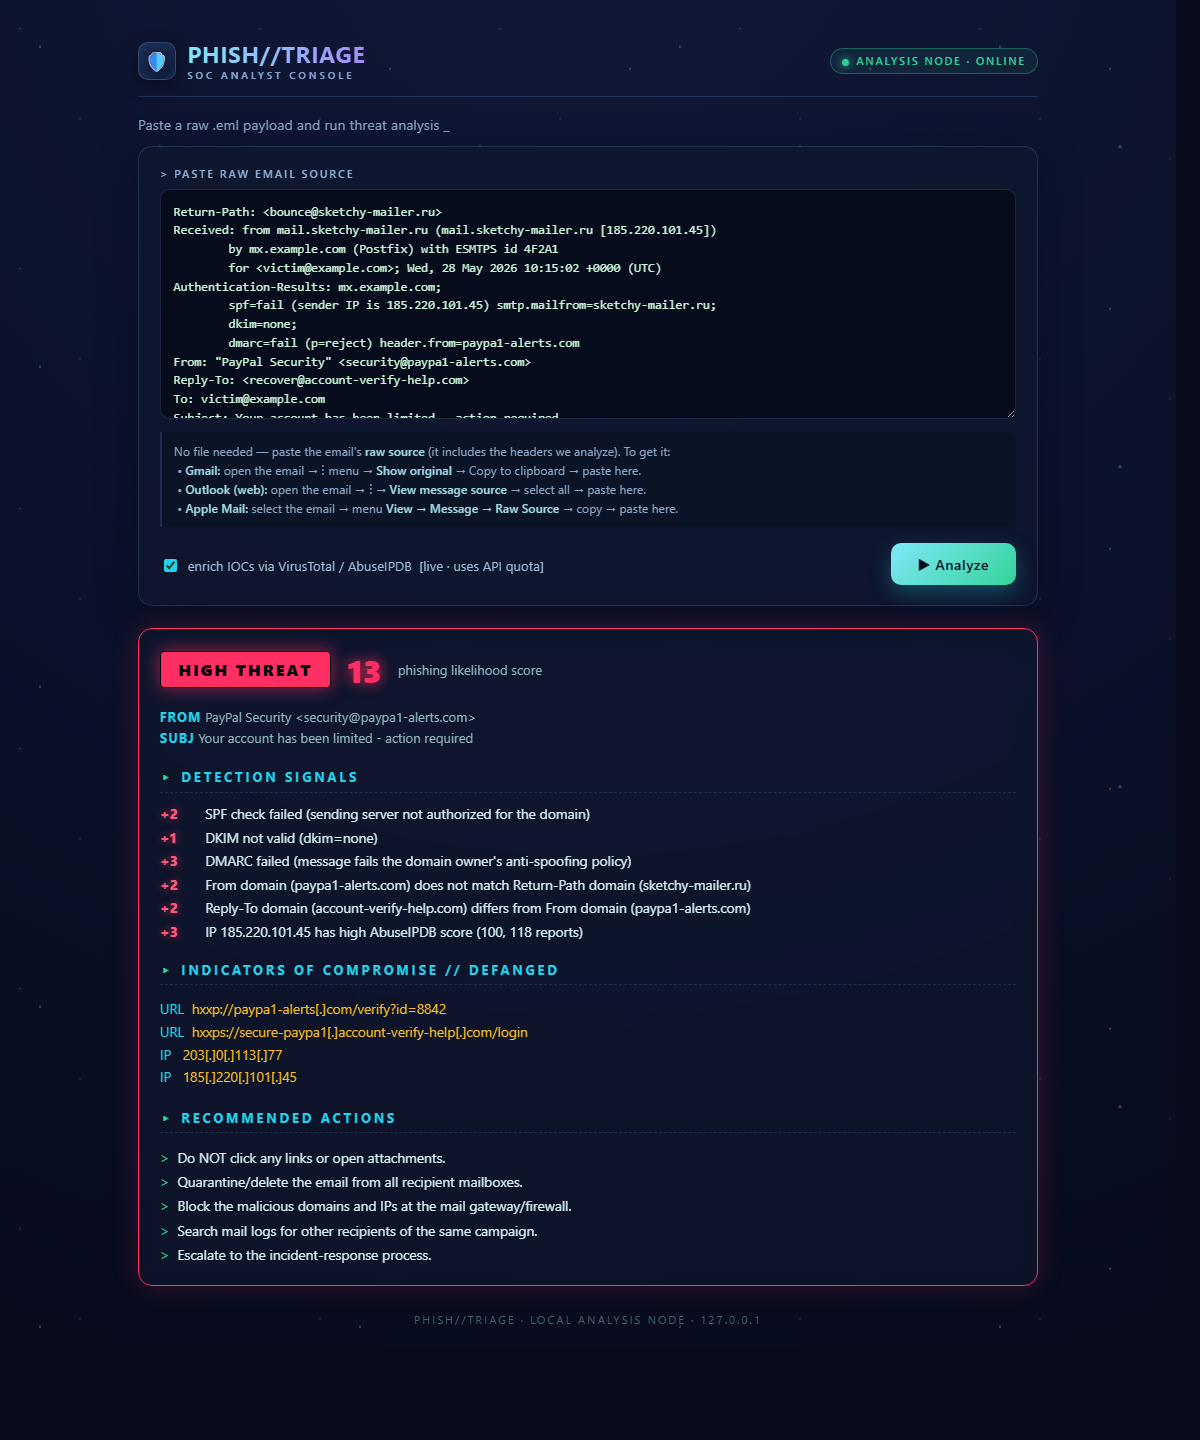
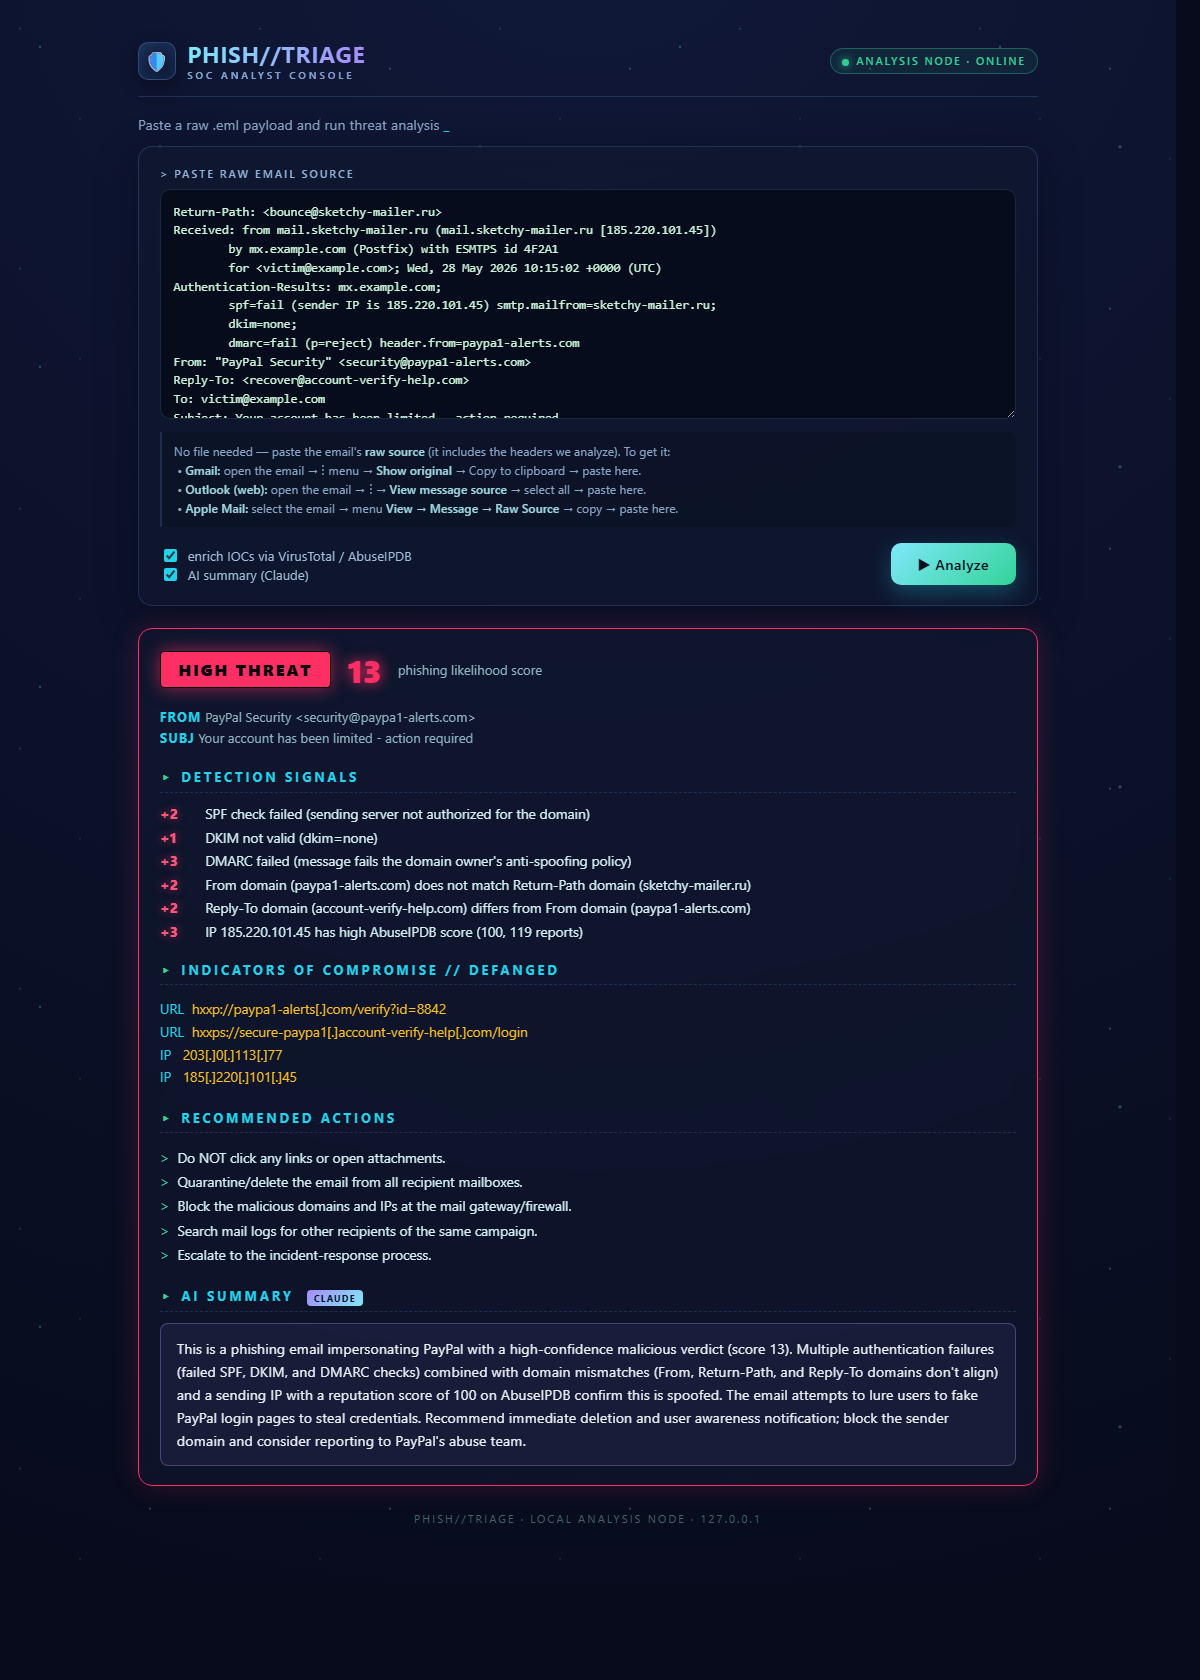
M7: show the AI summary in the web UI; use Haiku; cache demo summary
- Add an AI summary checkbox to the web UI; render the summary in a styled card;
  demo supports the ai=1 query param
- Default the summary model to claude-haiku-4-5 (fast and cheap for a short
  summary; opus-4-8 is still one line away)
- Cache the bundled-demo summary so repeated demo views do not re-call the API
- Add web-AI-path tests; refresh docs/screenshot.png with the AI summary

Changed region(s): [[0.1233, 0.0, 0.8325, 0.9062], [0.74, 0.3125, 0.8633, 0.4375], [0.6783, 0.0312, 0.8633, 0.0625]]

diff --git a/app.py b/app.py
@@ -17,6 +17,7 @@ from flask import Flask, request, render_template_string
 from phishing_triage.parser import parse_bytes
 from phishing_triage.iocs import defang
 from phishing_triage.cli import build_report
+from phishing_triage.summarize import generate_summary
 
 app = Flask(__name__)
 
@@ -25,6 +26,9 @@ SAMPLE = Path(__file__).resolve().parent / "samples" / "phishing_sample.eml"
 SAMPLE_TEXT = SAMPLE.read_text(encoding="utf-8") if SAMPLE.exists() else ""
 
 VERDICT_COLORS = {"High": "#ff2e63", "Medium": "#ffb302", "Low": "#39ff14"}
+
+# Cache the bundled-demo AI summary so repeated /?demo views don't re-call the API.
+_DEMO_SUMMARY_CACHE = {}
 
 PAGE = """
 <!doctype html>
@@ -147,6 +151,12 @@ PAGE = """
     .act { font-size: .86rem; color: #d4eef3; padding: .2rem 0 .2rem 1.1rem; position: relative; }
     .act::before { content: ">"; position: absolute; left: 0; color: var(--green); }
     .empty { color: #6fb9c7; font-size: .85rem; }
+    .aisum { font-size: .9rem; line-height: 1.6; color: #e6f2f7; margin: .3rem 0 0;
+             padding: .8rem 1rem; border-radius: 8px; border: 1px solid rgba(167,139,250,.35);
+             background: rgba(167,139,250,.08); }
+    .ai-tag { font-size: .58rem; font-weight: 700; letter-spacing: 1px; color: #07101f;
+              background: linear-gradient(135deg,#a78bfa,#7ee8fa); padding: .12rem .45rem;
+              border-radius: 4px; vertical-align: middle; margin-left: .4rem; }
     .foot { margin-top: 1.6rem; text-align: center; color: #466; font-size: .7rem; letter-spacing: 2px; }
   </style>
 </head>
@@ -171,8 +181,12 @@ PAGE = """
           &nbsp;&bull; <b>Outlook (web):</b> open the email → &#8942; → <b>View message source</b> → select all → paste here.<br>
           &nbsp;&bull; <b>Apple Mail:</b> select the email → menu <b>View → Message → Raw Source</b> → copy → paste here.</p>
         <div class="controls">
-          <span class="chk"><label><input type="checkbox" name="enrich" {% if enrich %}checked{% endif %}>
-            enrich IOCs via VirusTotal / AbuseIPDB &nbsp;[live · uses API quota]</label></span>
+          <span class="chk">
+            <label><input type="checkbox" name="enrich" {% if enrich %}checked{% endif %}>
+              enrich IOCs via VirusTotal / AbuseIPDB</label><br>
+            <label><input type="checkbox" name="ai_summary" {% if ai_summary %}checked{% endif %}>
+              AI summary (Claude)</label>
+          </span>
           <button type="submit">▶ Analyze</button>
         </div>
       </div>
@@ -208,6 +222,11 @@ PAGE = """
 
       <h3>Recommended actions</h3>
       {% for action in report.assessment.recommended_actions %}<div class="act">{{ action }}</div>{% endfor %}
+
+      {% if summary %}
+      <h3>AI summary <span class="ai-tag">Claude</span></h3>
+      <p class="aisum">{{ summary }}</p>
+      {% endif %}
     </div>
     {% endif %}
 
@@ -221,27 +240,43 @@ PAGE = """
 @app.route("/", methods=["GET", "POST"])
 def index():
     report = None
+    summary = None
     eml_text = SAMPLE_TEXT
     enrich = True
+    ai_summary = False
 
     if request.method == "POST":
         eml_text = request.form.get("eml", "")
         enrich = request.form.get("enrich") is not None
+        ai_summary = request.form.get("ai_summary") is not None
         msg = parse_bytes(eml_text.encode("utf-8"))
         report = build_report(msg, source="(pasted email)", enrich=enrich)
     elif request.args.get("demo"):
         # Show the bundled sample report on a plain GET — handy for a quick look
-        # without pasting anything. Add &live=1 to run real enrichment too.
+        # without pasting anything. Add &live=1 to enrich, &ai=1 for the summary.
         enrich = request.args.get("live") is not None
+        ai_summary = request.args.get("ai") is not None
         msg = parse_bytes(SAMPLE_TEXT.encode("utf-8"))
         report = build_report(msg, source="samples/phishing_sample.eml", enrich=enrich)
+
+    if report and ai_summary:
+        # The /?demo report is fixed, so cache its summary instead of paying for a
+        # fresh Claude call on every view.
+        is_demo = request.args.get("demo") is not None
+        cache_key = (enrich,)
+        if is_demo and cache_key in _DEMO_SUMMARY_CACHE:
+            summary = _DEMO_SUMMARY_CACHE[cache_key]
+        else:
+            summary = generate_summary(report)
+            if is_demo:
+                _DEMO_SUMMARY_CACHE[cache_key] = summary
 
     color = VERDICT_COLORS.get(
         report["assessment"]["verdict"] if report else "", "#566573"
     )
     return render_template_string(
         PAGE, report=report, eml_text=eml_text, enrich=enrich,
-        color=color, defang=defang,
+        ai_summary=ai_summary, summary=summary, color=color, defang=defang,
     )
 
 

diff --git a/tests/test_app.py b/tests/test_app.py
@@ -4,6 +4,7 @@ Uses Flask's built-in test client, so no real server or network is needed.
 All triage runs offline (enrichment disabled) for determinism.
 """
 
+import app as webapp
 from app import app, SAMPLE_TEXT
 
 
@@ -36,3 +37,16 @@ def test_post_pasted_email_is_analyzed():
     html = resp.get_data(as_text=True)
     assert resp.status_code == 200
     assert "High" in html
+
+
+def test_ai_summary_shown_when_requested(monkeypatch):
+    # Stub the Claude call so the web AI path is tested offline.
+    monkeypatch.setattr(webapp, "generate_summary", lambda report: "STUB SUMMARY TEXT")
+    resp = _client().post("/", data={"eml": SAMPLE_TEXT, "ai_summary": "on"})
+    html = resp.get_data(as_text=True)
+    assert "STUB SUMMARY TEXT" in html
+
+
+def test_no_ai_summary_by_default():
+    html = _client().post("/", data={"eml": SAMPLE_TEXT}).get_data(as_text=True)
+    assert 'class="aisum"' not in html

diff --git a/phishing_triage/summarize.py b/phishing_triage/summarize.py
@@ -14,8 +14,9 @@ import anthropic
 
 from phishing_triage.config import get_anthropic_key
 
-# Current flagship model. Swap to "claude-haiku-4-5" if you want it cheaper/faster.
-MODEL = "claude-opus-4-8"
+# Haiku is fast and cheap and plenty for a short summary. Swap to "claude-opus-4-8"
+# for the flagship model if you want richer prose.
+MODEL = "claude-haiku-4-5"
 REQUEST_TIMEOUT = 30  # seconds
 
 SYSTEM_PROMPT = (